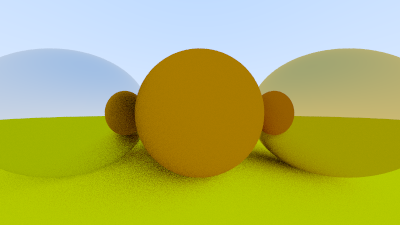
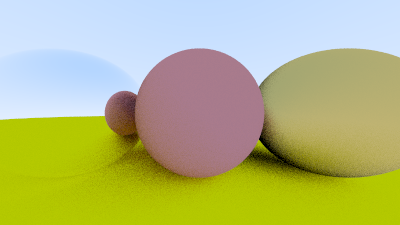
dielectrics

diff --git a/ray/src/material.rs b/ray/src/material.rs
@@ -1,13 +1,25 @@
-use std::rc::Rc;
+use std::{rc::Rc, os::windows::thread};
 
-use crate::{hittable::HitRecord, vec::{Ray, Color, random_in_hemisphere, NearZeroExt, ReflectExt, Vect3}};
+use rand::{thread_rng, Rng};
+
+use crate::{
+    hittable::HitRecord,
+    vec::{
+        random_in_hemisphere, random_in_unit_sphere, Color, NearZeroExt, Ray, ReflectExt, Vect3,
+    },
+};
 
 pub trait Material {
-    fn scatter(&self, r_in: &Ray, rec: &HitRecord, attenuation: &mut Color, scattered: &mut Ray) -> bool {
+    fn scatter(
+        &self,
+        _r_in: &Ray,
+        _rec: &HitRecord,
+        _attenuation: &mut Color,
+        _scattered: &mut Ray,
+    ) -> bool {
         false
     }
 }
-
 
 impl dyn Material {
     pub fn default() -> Rc<Self> {
@@ -26,7 +38,13 @@ impl Lambertian {
 }
 
 impl Material for Lambertian {
-    fn scatter(&self, r_in: &Ray, rec: &HitRecord, attenuation: &mut Color, scattered: &mut Ray) -> bool {
+    fn scatter(
+        &self,
+        _r_in: &Ray,
+        rec: &HitRecord,
+        attenuation: &mut Color,
+        scattered: &mut Ray,
+    ) -> bool {
         let mut scatter_dir = random_in_hemisphere(&rec.normal);
 
         if scatter_dir.near_zero() {
@@ -42,20 +60,88 @@ impl Material for Lambertian {
 
 pub struct Metal {
     albedo: Color,
+    fuzzy: f32,
 }
 
 impl Metal {
-    pub fn new(albedo: Color) -> Self {
-        Metal { albedo }
+    pub fn new(albedo: Color, fuzzy: f32) -> Self {
+        Metal { albedo, fuzzy }
     }
 }
 
 impl Material for Metal {
-    fn scatter(&self, r_in: &Ray, rec: &HitRecord, attenuation: &mut Color, scattered: &mut Ray) -> bool {
-        let reflect =  r_in.dir.normalize().reflect(rec.normal);
-        *scattered = Ray::new(rec.p, reflect); 
+    fn scatter(
+        &self,
+        r_in: &Ray,
+        rec: &HitRecord,
+        attenuation: &mut Color,
+        scattered: &mut Ray,
+    ) -> bool {
+        let reflect = r_in.dir.normalize().reflect(rec.normal);
+        *scattered = Ray::new(rec.p, reflect + self.fuzzy * random_in_unit_sphere());
         *attenuation = self.albedo;
 
         scattered.dir.dot(&rec.normal) > 0.0
     }
+}
+
+pub struct Dielectric {
+    //Index of refraction
+    ir: f32,
+}
+
+impl Dielectric {
+    pub fn new(ir: f32) -> Self {
+        Dielectric { ir }
+    }
+}
+
+fn refraction(uv: &Vect3, n: &Vect3, etai_etat: f32) -> Vect3 {
+    let cos_theta = f32::min(n.dot(&-uv), 1.0);
+    let r_out_perp = etai_etat * (uv + cos_theta * n);
+    let r_out_parallel = -((1.0 - r_out_perp.magnitude_squared()).abs().sqrt()) * n;
+
+    r_out_perp + r_out_parallel
+}
+
+impl Material for Dielectric {
+    fn scatter(
+        &self,
+        r_in: &Ray,
+        rec: &HitRecord,
+        attenuation: &mut Color,
+        scattered: &mut Ray,
+    ) -> bool {
+        *attenuation = Color::new(1.0, 1.0, 1.0);
+
+        let refraction_ratio = if rec.front_face {
+            self.ir.recip()
+        } else {
+            self.ir
+        };
+
+        let unit_dir = r_in.dir.normalize();
+        let cos_theta = ((-unit_dir).dot(&rec.normal)).min(1.0);
+        let sin_theta = (1.0 - cos_theta.powi(2)).sqrt();
+
+        let cannot_refract = refraction_ratio * sin_theta > 1.0;
+        let should_reflect = reflectance(cos_theta, refraction_ratio) > thread_rng().gen();
+
+        let dir = if cannot_refract || should_reflect {
+            unit_dir.reflect(rec.normal)
+        } else {
+            refraction(&unit_dir, &rec.normal, refraction_ratio)
+        };
+        *scattered = Ray::new(rec.p, dir);
+
+        true
+    }
+}
+
+fn reflectance(cos_theta: f32, refraction_ratio: f32) -> f32 {
+    //schlick approx
+    let r = (1.0 - refraction_ratio) / (1.0 + refraction_ratio);
+    let r = r * r;
+
+    r + (1.0 - r) * (1.0 - cos_theta).powi(5)
 }

diff --git a/ray/src/main.rs b/ray/src/main.rs
@@ -1,16 +1,16 @@
-use std::{f32::INFINITY, rc::Rc, ops::Mul};
+use std::{f32::INFINITY, rc::Rc};
 
-use nalgebra::Vector3;
-use rand::{Rng};
+use rand::Rng;
 use ray::{
     buf::Buf,
     camera::Camera,
     framebuffer::save_img,
     hittable::{HitRecord, Hittable},
     hittable_list::HittableList,
+    material::{Dielectric, Lambertian, Metal},
     sphere::Sphere,
     utility::{HEIGHT, WIDTH},
-    vec::{Color, Poin3, Ray, Vect3}, material::{Lambertian, Metal},
+    vec::{Color, Poin3, Ray, Vect3},
 };
 
 fn ray_color(r: &Ray, world: &HittableList, depth: u32) -> Color {
@@ -18,12 +18,12 @@ fn ray_color(r: &Ray, world: &HittableList, depth: u32) -> Color {
         return Color::new(0.0, 0.0, 0.0);
     }
     let mut rec: HitRecord = Default::default();
-    
+
     if world.hit(r, 0.001, INFINITY, &mut rec) {
         let mut scatter_r: Ray = Ray::new(Poin3::zeros(), Vect3::zeros());
         let mut attenuation: Color = Color::zeros();
         if rec.mat.scatter(r, &rec, &mut attenuation, &mut scatter_r) {
-            return attenuation.component_mul(&ray_color(&scatter_r, &world, depth - 1))
+            return attenuation.component_mul(&ray_color(&scatter_r, &world, depth - 1));
         }
 
         return Color::new(0.0, 0.0, 0.0);
@@ -38,7 +38,7 @@ fn main() {
     // Image
     let mut img_buf = Buf::default();
     let _aspect_ratio = WIDTH as f32 / HEIGHT as f32;
-    let samples_per_pixel = 50;
+    let samples_per_pixel = 25;
     let max_depth = 50;
 
     // Camera
@@ -48,14 +48,35 @@ fn main() {
     let mut world: HittableList = Default::default();
 
     let mat_ground = Rc::new(Lambertian::new(Color::new(0.8, 0.8, 0.0)));
-    let mat_center = Rc::new(Lambertian::new(Color::new(0.7, 0.3, 0.0)));
-    let mat_left = Rc::new(Metal::new(Color::new(0.8, 0.8, 0.8)));
-    let mat_right = Rc::new(Metal::new(Color::new(0.8, 0.6, 0.2)));
+    let mat_center = Rc::new(Lambertian::new(Color::new(0.7, 0.3, 0.3)));
+    let mat_left = Rc::new(Dielectric::new(1.5));
+    let mat_right = Rc::new(Metal::new(Color::new(0.8, 0.6, 0.2), 1.0));
 
-    world.add(Rc::new(Sphere::new(Poin3::new(0.0, -100.5, -1.0), 100.0, mat_ground)));
-    world.add(Rc::new(Sphere::new(Poin3::new(0.0, 0.0, -1.0), 0.5, mat_center)));
-    world.add(Rc::new(Sphere::new(Poin3::new(-1.0, 0.0, -1.0), 0.5, mat_left)));
-    world.add(Rc::new(Sphere::new(Poin3::new(1.0, 0.0, -1.0), 0.5, mat_right)));
+    world.add(Rc::new(Sphere::new(
+        Poin3::new(0.0, -100.5, -1.0),
+        100.0,
+        mat_ground,
+    )));
+    world.add(Rc::new(Sphere::new(
+        Poin3::new(0.0, 0.0, -1.0),
+        0.5,
+        mat_center,
+    )));
+    world.add(Rc::new(Sphere::new(
+        Poin3::new(-1.0, 0.0, -1.0),
+        0.5,
+        mat_left.clone(),
+    )));
+    world.add(Rc::new(Sphere::new(
+        Poin3::new(-1.0, 0.0, -1.0),
+        -0.4,
+        mat_left,
+    )));
+    world.add(Rc::new(Sphere::new(
+        Poin3::new(1.0, 0.0, -1.0),
+        0.5,
+        mat_right,
+    )));
 
     // Render
     let mut rng = rand::thread_rng();

diff --git a/ray/src/hittable.rs b/ray/src/hittable.rs
@@ -1,6 +1,9 @@
-use std::{rc::Rc};
+use std::rc::Rc;
 
-use crate::{vec::{Poin3, Ray, Vect3}, material::{Material}};
+use crate::{
+    material::Material,
+    vec::{Poin3, Ray, Vect3},
+};
 
 pub struct HitRecord {
     pub p: Poin3,
@@ -12,7 +15,13 @@ pub struct HitRecord {
 
 impl Default for HitRecord {
     fn default() -> Self {
-        Self { p: Default::default(), normal: Default::default(), mat: <dyn Material>::default(), t: Default::default(), front_face: Default::default() }
+        Self {
+            p: Default::default(),
+            normal: Default::default(),
+            mat: <dyn Material>::default(),
+            t: Default::default(),
+            front_face: Default::default(),
+        }
     }
 }
 

diff --git a/ray/src/sphere.rs b/ray/src/sphere.rs
@@ -2,7 +2,8 @@ use std::rc::Rc;
 
 use crate::{
     hittable::{HitRecord, Hittable},
-    vec::{Poin3, Ray}, material::Material,
+    material::Material,
+    vec::{Poin3, Ray},
 };
 
 pub struct Sphere {
@@ -44,6 +45,10 @@ impl Hittable for Sphere {
 
 impl Sphere {
     pub fn new(center: Poin3, radius: f32, mat: Rc<dyn Material>) -> Self {
-        Sphere { center, radius, mat }
+        Sphere {
+            center,
+            radius,
+            mat,
+        }
     }
 }

diff --git a/ray/src/buf.rs b/ray/src/buf.rs
@@ -29,7 +29,7 @@ impl Buf {
         let r = (color.x * scale).sqrt();
         let g = (color.y * scale).sqrt();
         let b = (color.z * scale).sqrt();
-        
+
         let index = ((x + y * self.width) * 3) as usize;
         self.data[index] = (256.0 * r.clamp(0.0, 0.999)) as u8;
         self.data[index + 1] = (256.0 * g.clamp(0.0, 0.999)) as u8;

diff --git a/ray/src/vec.rs b/ray/src/vec.rs
@@ -20,9 +20,9 @@ pub trait ReflectExt {
 }
 
 impl ReflectExt for Vect3 {
-   fn reflect(&self, n: Vect3) -> Vect3 {
-       self - 2.0*self.dot(&n)*n
-   } 
+    fn reflect(&self, n: Vect3) -> Vect3 {
+        self - 2.0 * self.dot(&n) * n
+    }
 }
 
 #[derive(Clone)]

diff --git a/ray/src/lib.rs b/ray/src/lib.rs
@@ -4,7 +4,7 @@ pub mod camera;
 pub mod framebuffer;
 pub mod hittable;
 pub mod hittable_list;
+pub mod material;
 pub mod sphere;
 pub mod utility;
 pub mod vec;
-pub mod material;
